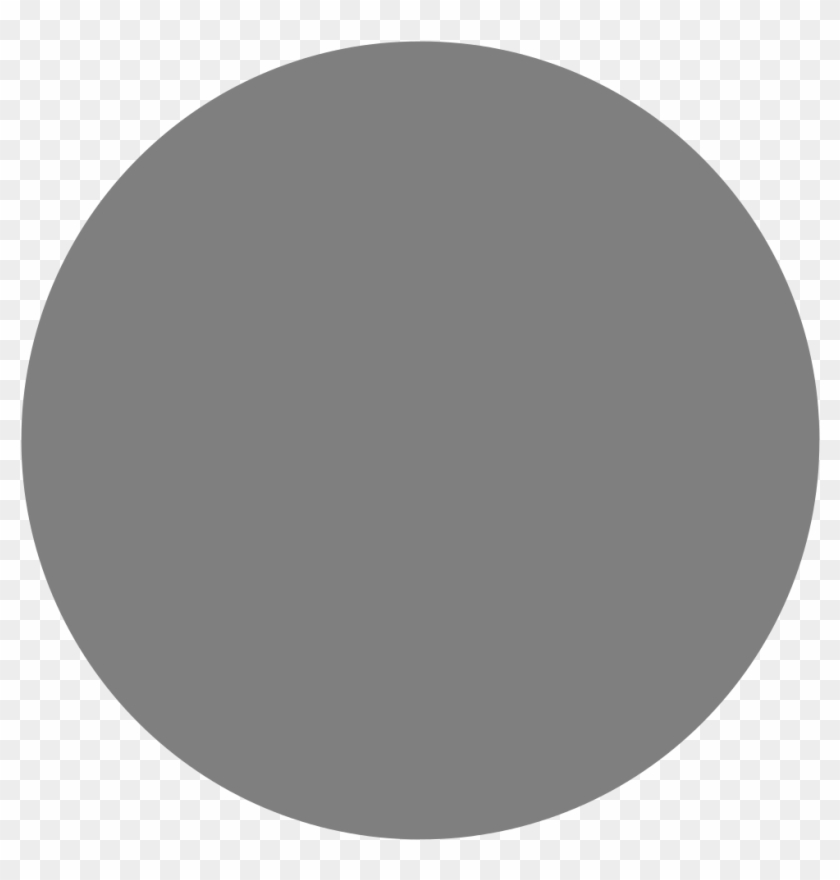
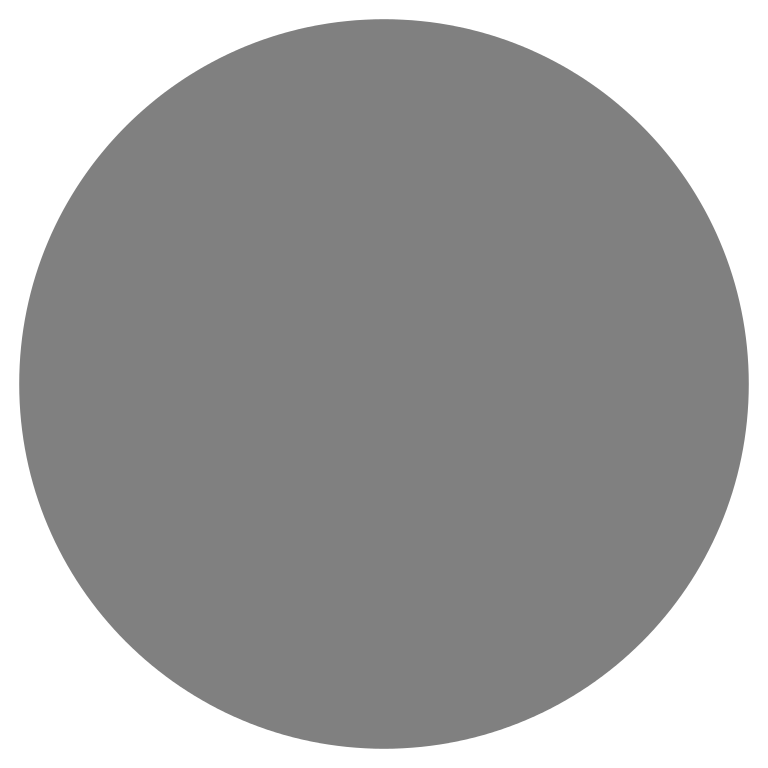
Grey Circle

diff --git a/index.html b/index.html
@@ -100,31 +100,31 @@ SLIDESHOW DOESNT SHOW UP-->
 
       <section class="grid-container-2">
         <div class="column2">
-          <img src="https://github.com/dsam3/northside-knights/blob/main/media/grey.jpg?raw=true" width: "150" height="150">
+          <img src="https://github.com/dsam3/northside-knights/blob/main/media/grey-circle.png?raw=true" width: "150" height="150">
           <h3 class="grid-heading-1">Lorem ipsum dolor sit amet</h3>
           <p class="grid-content-1">Lorem ipsum dolor sit amet, consectetur adipiscing elit. Nulla vestibulum mauris ut diam vulputate, nec scelerisque magna maximus. Suspendisse sit amet ex vestibulum, semper nunc quis, consequat arcu. Pellentesque feugiat molestie enim a aliquam.</p>
         </div>
 
         <div class="column2">
-          <img src="https://github.com/dsam3/northside-knights/blob/main/media/grey.jpg?raw=true" width: "150" height="150">
+          <img src="https://github.com/dsam3/northside-knights/blob/main/media/grey-circle.png?raw=true" width: "150" height="150">
           <h3 class="grid-heading-2">Lorem ipsum dolor sit amet</h3>
           <p class="grid-content-2">Lorem ipsum dolor sit amet, consectetur adipiscing elit. Nulla vestibulum mauris ut diam vulputate, nec scelerisque magna maximus. Suspendisse sit amet ex vestibulum, semper nunc quis, consequat arcu. Pellentesque feugiat molestie enim a aliquam.</p>
         </div>
 
         <div class="column2">
-          <img src="https://github.com/dsam3/northside-knights/blob/main/media/grey.jpg?raw=true" width: "150" height="150">
+          <img src="https://github.com/dsam3/northside-knights/blob/main/media/grey-circle.png?raw=true" width: "150" height="150">
           <h3 class="grid-heading-2">Lorem ipsum dolor sit amet</h3>
           <p class="grid-content-2">Lorem ipsum dolor sit amet, consectetur adipiscing elit. Nulla vestibulum mauris ut diam vulputate, nec scelerisque magna maximus. Suspendisse sit amet ex vestibulum, semper nunc quis, consequat arcu. Pellentesque feugiat molestie enim a aliquam.</p>
         </div>
 
         <div class="column2">
-          <img src="https://github.com/dsam3/northside-knights/blob/main/media/grey.jpg?raw=true" width: "150" height="150">
+          <img src="https://github.com/dsam3/northside-knights/blob/main/media/grey-circle.png?raw=true" width: "150" height="150">
           <h3 class="grid-heading-2">Lorem ipsum dolor sit amet</h3>
           <p class="grid-content-2">Lorem ipsum dolor sit amet, consectetur adipiscing elit. Nulla vestibulum mauris ut diam vulputate, nec scelerisque magna maximus. Suspendisse sit amet ex vestibulum, semper nunc quis, consequat arcu. Pellentesque feugiat molestie enim a aliquam.</p>
         </div>
 
         <div class="column2">
-          <img src="https://github.com/dsam3/northside-knights/blob/main/media/grey.jpg?raw=true" width: "150" height="150">
+          <img src="https://github.com/dsam3/northside-knights/blob/main/media/grey-circle.png?raw=true" width: "150" height="150">
           <h3 class="grid-heading-2">Lorem ipsum dolor sit amet</h3>
           <p class="grid-content-2">Lorem ipsum dolor sit amet, consectetur adipiscing elit. Nulla vestibulum mauris ut diam vulputate, nec scelerisque magna maximus. Suspendisse sit amet ex vestibulum, semper nunc quis, consequat arcu. Pellentesque feugiat molestie enim a aliquam.</p>
         </div>
